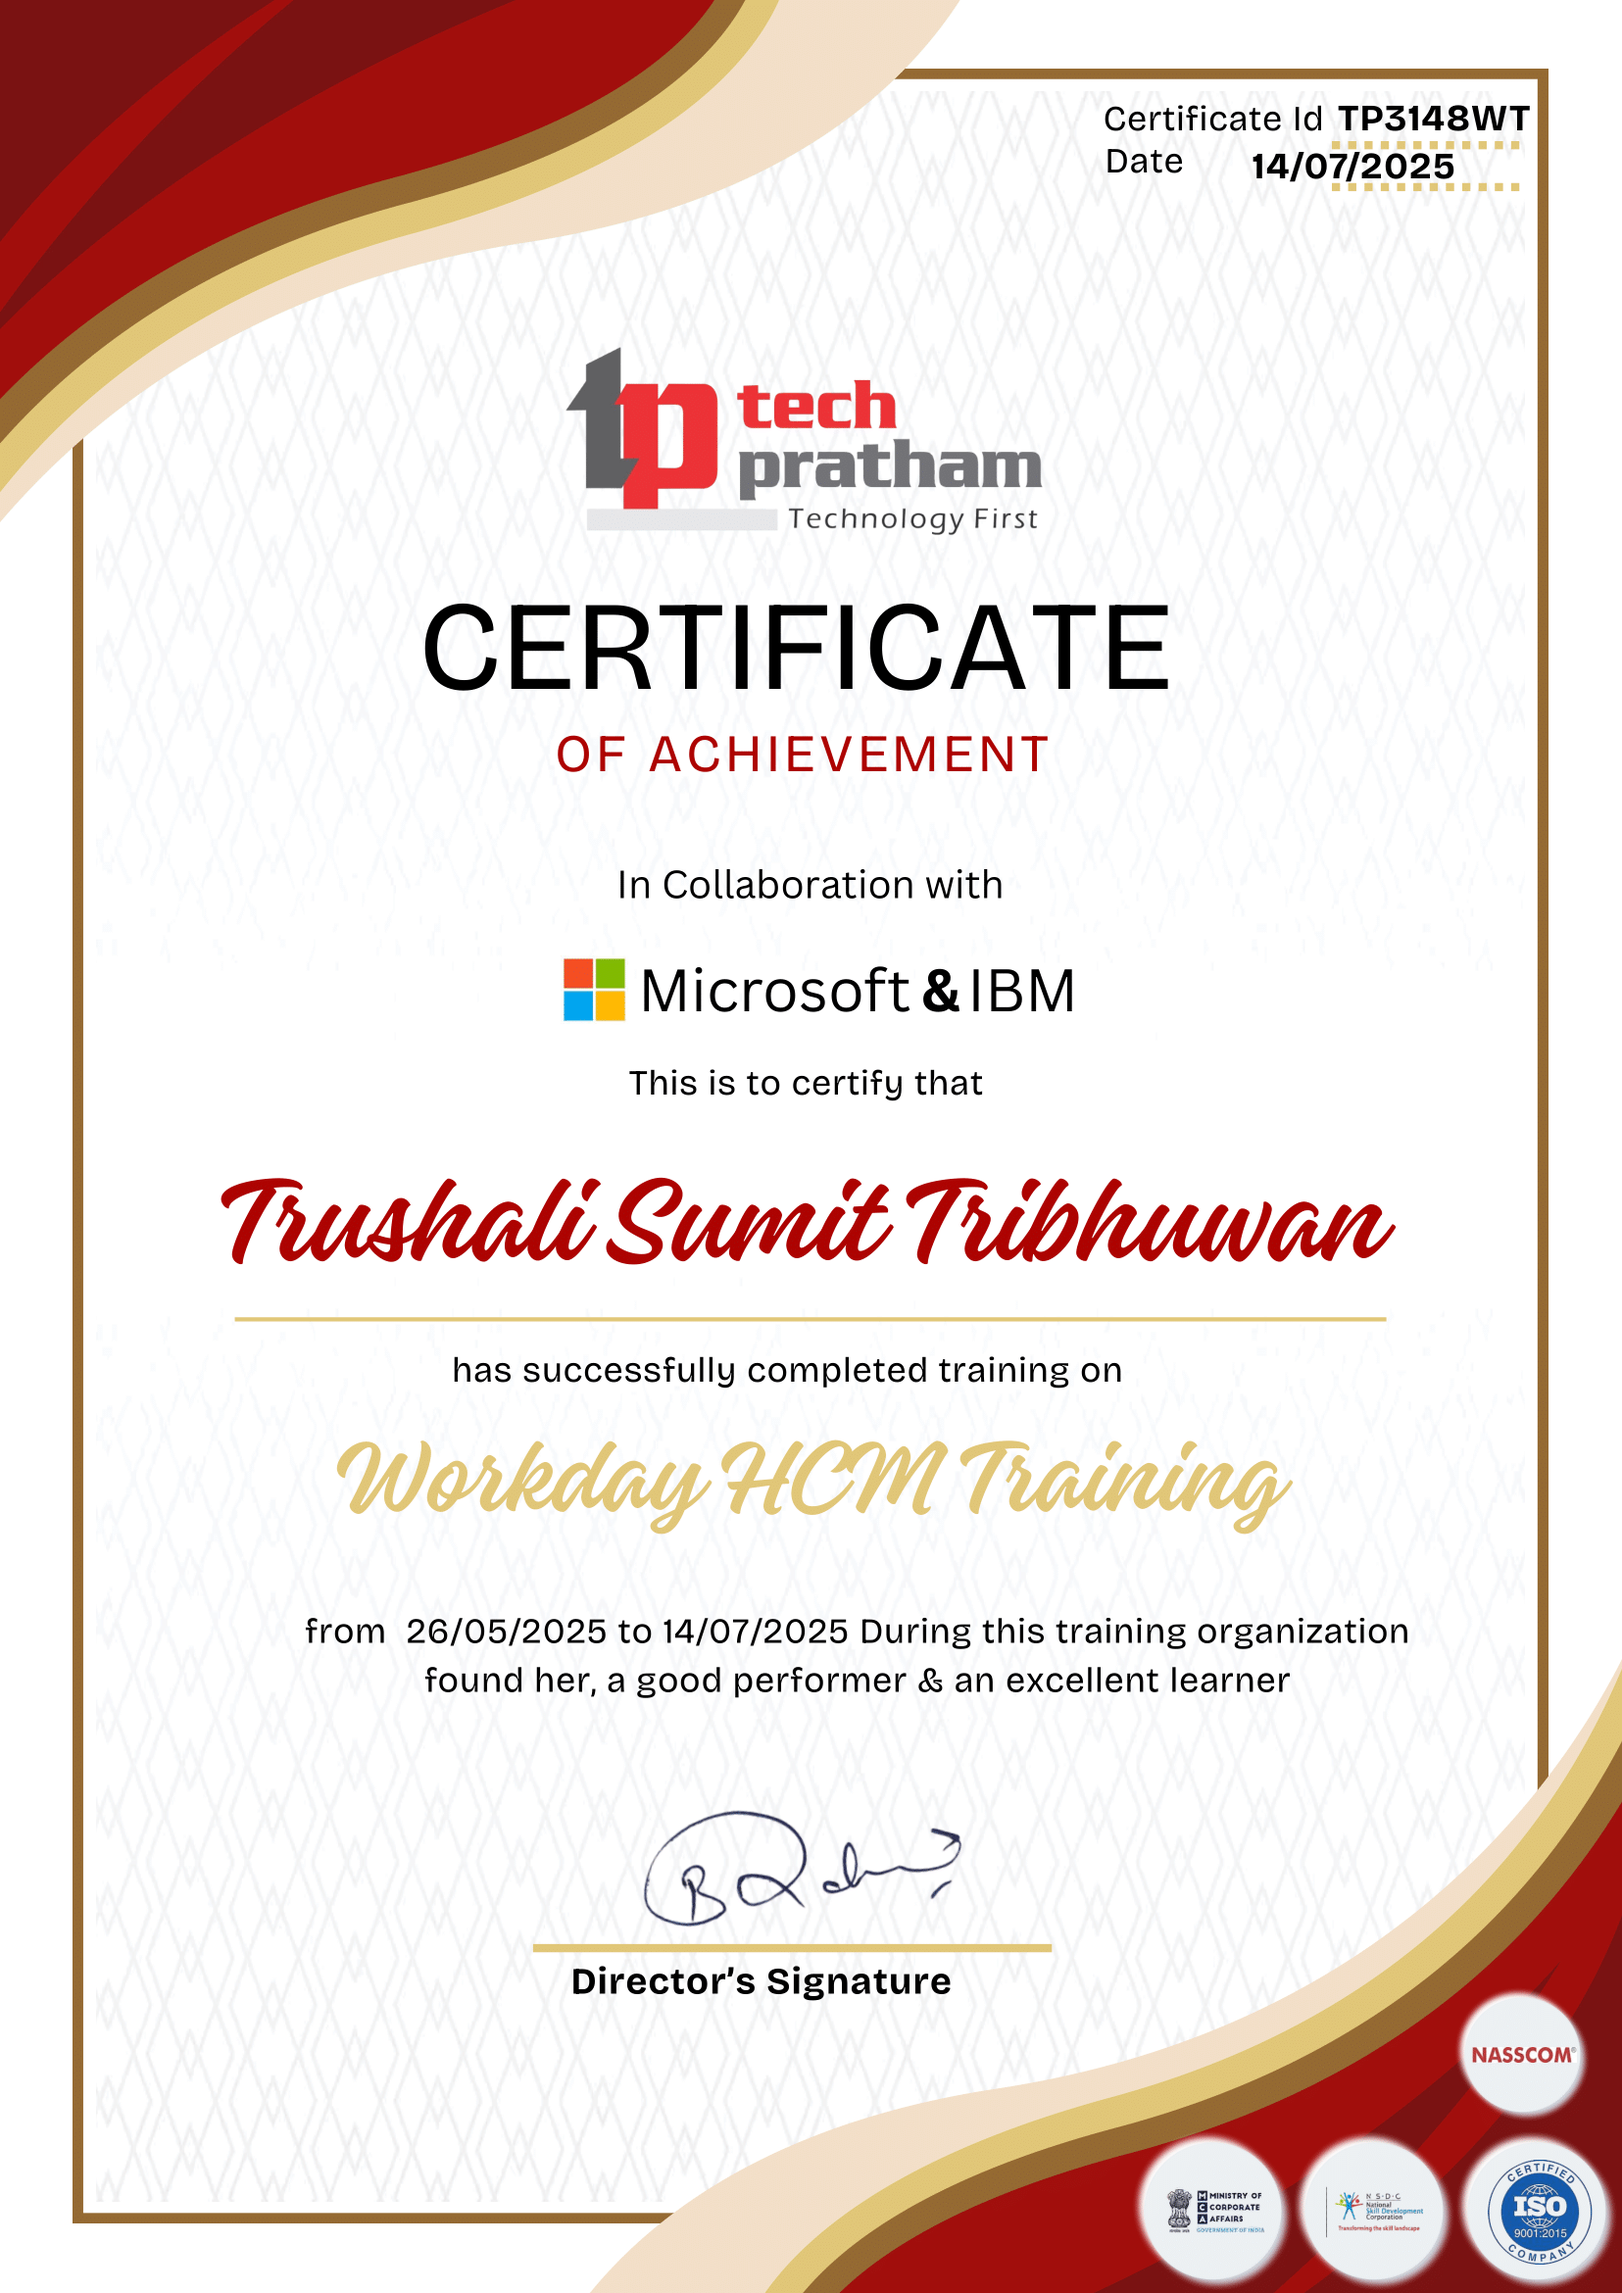
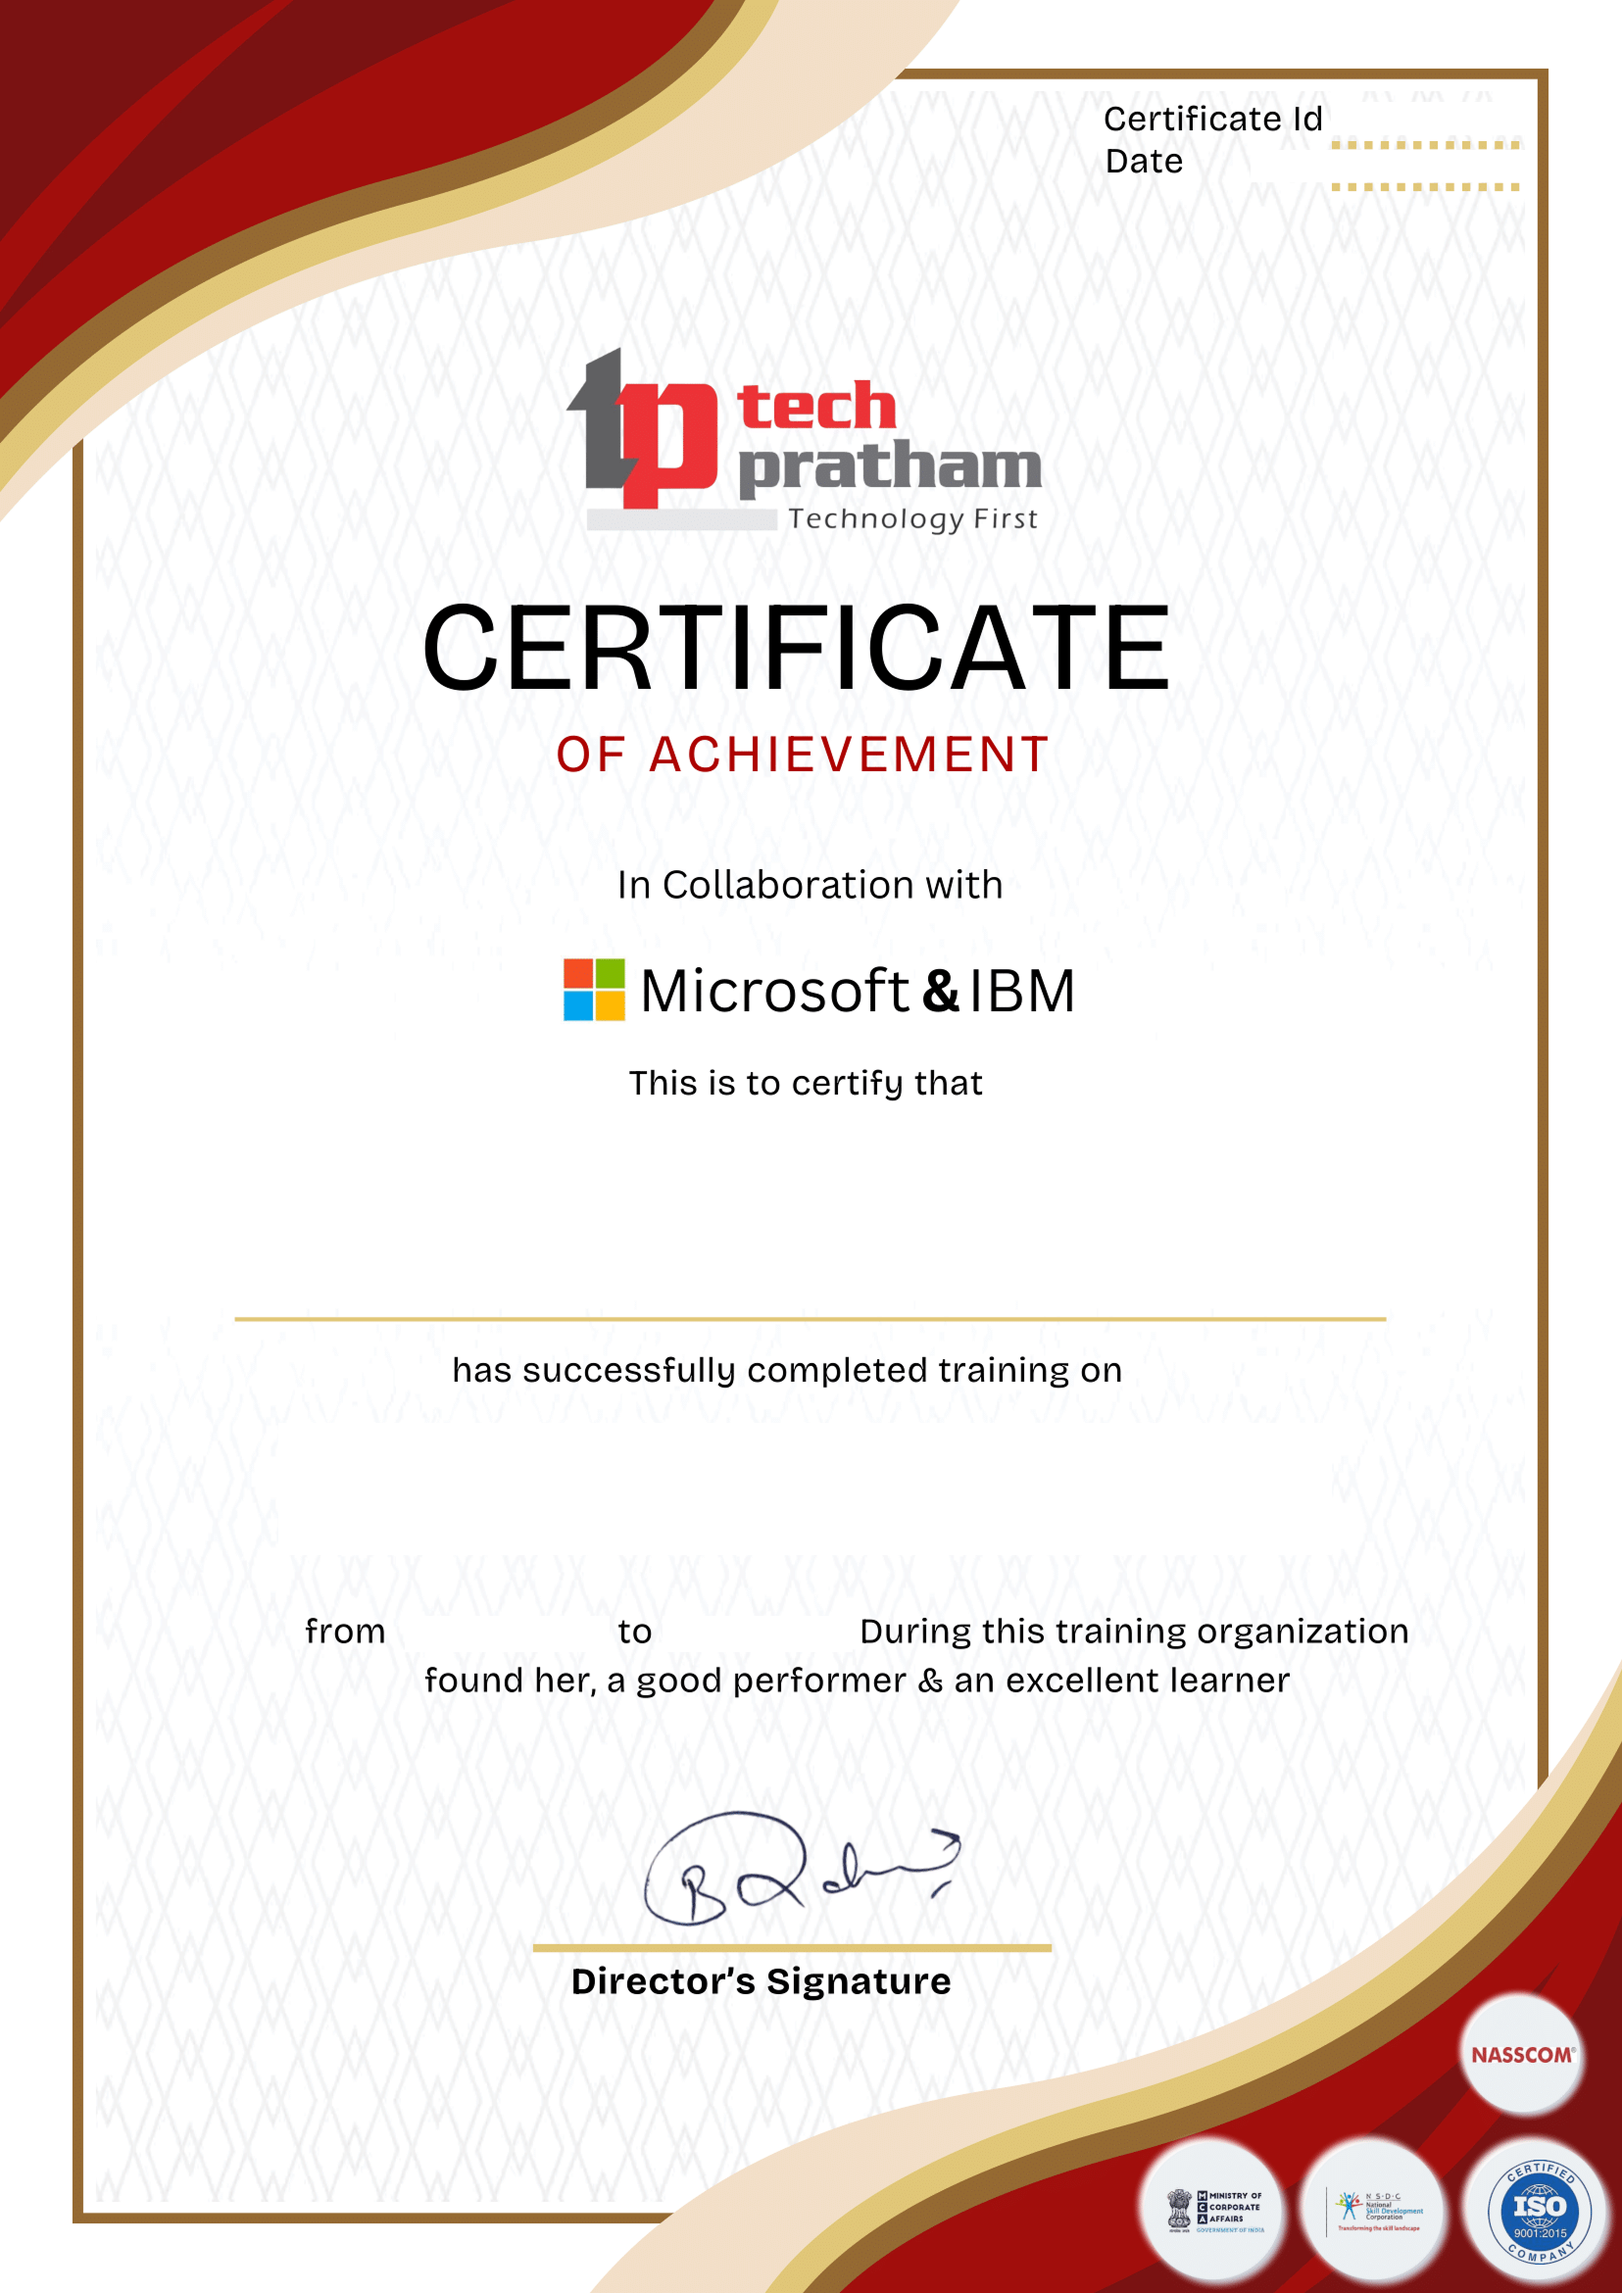
added certificate generation
added certification feature in the admin portal by using canvas

diff --git a/pages/admin/dashboard/completed.tsx b/pages/admin/dashboard/completed.tsx
@@ -1,6 +1,6 @@
 "use client";
 
-import React, { useContext, useEffect, useState } from 'react';
+import React, { useContext, useEffect, useRef, useState } from 'react';
 import Link from 'next/link';
 import { Button } from '@/components/ui/button';
 import { UserContext } from '@/context/userContext';
@@ -9,13 +9,44 @@ import AdminLoader from '@/src/account/common/AdminLoader';
 import AdminSidebar from '@/src/account/common/AdminSidebar';
 import AdminTopBar from '@/src/account/common/AdminTopBar';
 
-import { Dialog, DialogContent, DialogTrigger, DialogHeader, DialogTitle } from "@/components/ui/dialog";
+import { Dialog, DialogContent, DialogTrigger } from "@/components/ui/dialog";
+
+interface Certificate {
+    certificateId: string;
+    enrolledDate: string;
+    completionDate: string;
+}
+
+interface Course {
+    _id: string;
+    name: string;
+    email: string;
+    phone: string;
+    course_title: string;
+    course_desc: string;
+    course_link: string;
+    category: string;
+    level: string;
+    duration: string;
+    totalAmount: number;
+    advanceAmount: number;
+    finalPayment: number;
+    advance: boolean;
+    verifyPayment: boolean;
+    courseCompletion: boolean;
+    certificate: Certificate | null;
+    createdAt: string;
+    updatedAt: string;
+}
 
 const Completed = () => {
     const { authenticated, loading, isAdmin, currentTab, setCurrentTab } = useContext(UserContext);
 
-    const [completedData, setCompletedData] = useState([]);
+    const [completedData, setCompletedData] = useState<Course[]>([]);
     const [isLoading, setIsLoading] = useState(false);
+    const [selectedCourse, setSelectedCourse] = useState<Course | null>(null);
+
+    const canvasRef = useRef<HTMLCanvasElement>(null);
 
     const fetchCompletedData = async () => {
         setIsLoading(true);
@@ -28,15 +59,7 @@ const Completed = () => {
             if (!res.ok) throw new Error(`API request failed with status ${res.status}`);
 
             const data = await res.json();
-            // Filter only completed courses with full payment
-            const completedCourses = data.filter((course: {
-                verifyPayment: boolean,
-                courseCompletion: boolean,
-                advance: boolean,
-                advanceAmount: number,
-                finalPayment: number,
-                totalAmount: number
-            }) => {
+            const completedCourses = data.filter((course: Course) => {
                 const isPaymentComplete = course.verifyPayment &&
                     (course.advance ?
                         (course.advanceAmount + course.finalPayment >= course.totalAmount) :
@@ -61,7 +84,90 @@ const Completed = () => {
         }
     }, [authenticated]);
 
-    const getPaymentBadge = (course: any) => {
+    // Generate certificate for selected course
+    const generateCertificate = (course: Course) => {
+        setSelectedCourse(course);
+        // Small delay to ensure the canvas is ready
+        setTimeout(() => {
+            drawCertificate(course);
+        }, 100);
+    };
+
+    const drawCertificate = async (course: Course) => {
+        const canvas = canvasRef.current;
+        if (!canvas) return;
+
+        const ctx = canvas.getContext('2d');
+        if (!ctx) return;
+
+        await document.fonts.ready;
+
+        const image = new Image();
+        image.onload = () => {
+            const formatDate = (dateString: string | undefined) => {
+                if (!dateString) return 'N/A';
+                try {
+                    return new Date(dateString).toLocaleDateString('en-GB');
+                } catch (e) {
+                    console.error("Could not parse date:", dateString);
+                    return 'Invalid Date';
+                }
+            };
+
+            canvas.width = image.width;
+            canvas.height = image.height;
+            ctx.drawImage(image, 0, 0);
+
+            // Set font for name and course title
+            ctx.font = '120px "Caramel", sans-serif';
+            ctx.fillStyle = '#AD0200';
+            ctx.textAlign = 'center';
+
+            // Student name (centered, red color)
+            const studentName = course.name;
+            ctx.fillText(studentName, canvas.width / 2, 1283);
+
+            // Course title (centered, below name)
+            ctx.font = '120px "Caramel", sans-serif';
+            ctx.fillStyle = '#E2C77B';
+            const courseTitle = course.course_title;
+            ctx.fillText(courseTitle, canvas.width / 2, 1529);
+
+            // Date range
+            ctx.font = 'bold 35px Arial, sans-serif';
+            ctx.fillStyle = '#333333';
+            const enrolledDate = formatDate(course.certificate?.enrolledDate);
+            const completionDate = formatDate(course.certificate?.completionDate);
+            ctx.fillText(enrolledDate, 500, 1680);
+            ctx.fillText(completionDate, 770, 1680);
+
+            // Certificate ID (top right)
+            ctx.font = 'bold 35px Arial, sans-serif';
+            ctx.fillStyle = '#333333';
+            ctx.textAlign = 'right';
+            const certificateIdNo = course?.certificate?.certificateId || 'N/A';
+            ctx.fillText(certificateIdNo, canvas.width - 110, 134);
+
+            // Date (top right, below certificate ID)
+            const currentDate = new Date().toLocaleDateString('en-GB');
+            ctx.fillText(currentDate, canvas.width - 110, 185);
+        };
+
+        // Use the certificate template image
+        image.src = '/course/certificate/certify.png';
+    };
+
+    const handleDownload = () => {
+        const canvas = canvasRef.current;
+        if (!canvas || !selectedCourse) return;
+
+        const link = document.createElement('a');
+        link.download = `${selectedCourse.certificate?.certificateId || 'certificate'}.png`;
+        link.href = canvas.toDataURL('image/png');
+        link.click();
+    };
+
+    const getPaymentBadge = (course: Course) => {
         const { advance, advanceAmount, finalPayment, totalAmount } = course;
         const totalPaid = advanceAmount + finalPayment;
 
@@ -121,9 +227,9 @@ const Completed = () => {
 
                                     {completedData.length > 0 ? (
                                         <div className="grid lg:grid-cols-2 md:grid-cols-1 grid-cols-1 gap-6 w-full justify-items-center">
-                                            {completedData.map((course: any, index: any) => (
+                                            {completedData.map((course: Course, index: number) => (
                                                 <div
-                                                    key={index}
+                                                    key={course._id || index}
                                                     className="w-full max-w-lg h-auto flex flex-col p-6 border rounded-xl shadow-md transition-all duration-300 bg-white hover:transform hover:shadow-lg"
                                                 >
                                                     {/* Course Information */}
@@ -222,18 +328,45 @@ const Completed = () => {
                                                             <DialogTrigger asChild>
                                                                 <Button
                                                                     className="flex-1 bg-gradient-to-r from-green-500 to-green-600 hover:from-green-600 hover:to-green-700 transition-all duration-200"
+                                                                    onClick={() => generateCertificate(course)}
                                                                 >
                                                                     Generate Certificate
                                                                 </Button>
                                                             </DialogTrigger>
-                                                            <DialogContent className='bg-white'>
-                                                                <h3 className="text-lg font-semibold text-gray-800">Certificate Details</h3>
-                                                                <div className='w-full flex flex-col gap-1'>
-                                                                    <div>Course Title: {course?.course_title}</div>
-                                                                    <div>User Name: {course?.name}</div>
-                                                                    <div>Starting Date: {course?.certificate?.enrolledDate}</div>
-                                                                    <div>Ending Date: {course?.certificate?.completionDate}</div>
-                                                                    <div>Certificate Id: {course?.certificate?.certificateId}</div>
+                                                            <DialogContent className='bg-white h-auto overflow-auto hide-scrollbar'>
+                                                                <h3 className="text-lg font-semibold text-gray-800 mb-4">Certificate of Achievement</h3>
+                                                                <div className='w-full flex flex-col gap-4'>
+                                                                    <div className='w-full h-auto flex items-center justify-center flex-col gap-4'>
+                                                                        <canvas
+                                                                            ref={canvasRef}
+                                                                            className='w-full hidden max-w-3xl h-full border-2 border-gray-200 rounded-lg shadow-lg'
+                                                                        />
+
+                                                                        {selectedCourse && (
+                                                                            <div className="text-center space-y-2">
+                                                                                <p className="text-sm text-gray-600">
+                                                                                    <strong>Student:</strong> {selectedCourse.name}
+                                                                                </p>
+                                                                                <p className="text-sm text-gray-600">
+                                                                                    <strong>Course:</strong> {selectedCourse.course_title}
+                                                                                </p>
+                                                                                <p className="text-sm text-gray-600">
+                                                                                    <strong>Certificate ID:</strong> {selectedCourse?.certificate?.certificateId}
+                                                                                </p>
+                                                                                <p className="text-sm text-gray-600">
+                                                                                    <strong>Completion Date:</strong> {selectedCourse?.certificate?.completionDate}
+                                                                                </p>
+                                                                            </div>
+                                                                        )}
+
+                                                                        <Button
+                                                                            variant='default'
+                                                                            className='mt-4 bg-green-600 hover:bg-green-700'
+                                                                            onClick={handleDownload}
+                                                                        >
+                                                                            Download Certificate
+                                                                        </Button>
+                                                                    </div>
                                                                 </div>
                                                             </DialogContent>
                                                         </Dialog>
